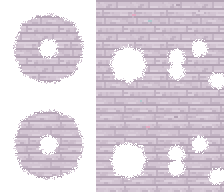
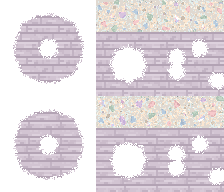
Ship Codex's skystone brick wall and the new nimbus (herringbone) and prism (pastel terrazzo) floors
Wall from tools/codex_wall.py, seams blended, roof slot rebuilt and
quantised to 38 colours by conform_wall_sheet (exit 0); door and window
icons re-cut from it. Floors from tools/codex_splat.py, motifs inside the
32 px cells. Generators no longer write any of the three.

Changed region(s): [[0.4062, 0.5, 1.0, 0.6875], [0.4062, 0.0, 1.0, 0.1875]]

diff --git a/tools/asset_generator/generate_assets.py b/tools/asset_generator/generate_assets.py
@@ -97,6 +97,10 @@ CONVERTED = ("tiles/skyway.png", "tiles/skyway_splat.png",
              "objects/tallcloudgrass.png", "objects/prismgrass.png",
              "mobs/skystonegolem.png", "mobs/stripedmegashark.png",
              "objects/hauntedclock.png",
+             # Codex art through tools/codex_wall.py and tools/codex_splat.py
+             # (docs/art/RUNS.md, 2026-09-16).
+             "objects/skystonebrickwall.png",
+             "tiles/nimbusfloor_splat.png", "tiles/prismfloor_splat.png",
              # Our own art for the three Outland mobs, which used to wear
              # vanilla's sheets by string ID.
              # Fen Wraith's body, composed by tools/resheet_mob.py from the
@@ -277,11 +281,8 @@ def main():
     gen_objects.gen_fulgurite_item(f"{out}/items/fulgurite.png")
     gen_objects.gen_prismshard_item(f"{out}/items/prismshard.png")
     # Buildable wood floors
-    gen_splats.build_splat(f"{out}/tiles/nimbusfloor_splat.png", gen_splats.material_nimbusfloor, 2, 0x81B,
-                           features=gen_splats.features_nimbusfloor)
+    # nimbusfloor_splat and prismfloor_splat are Codex art (CONVERTED above).
     # charfloor_splat is supplied art (CONVERTED above).
-    gen_splats.build_splat(f"{out}/tiles/prismfloor_splat.png", gen_splats.material_prismfloor, 2, 0x981,
-                           features=gen_splats.features_prismfloor)
     # Fauna: two critters, two enemies, bestiary icons
     gen_critters.gen_critters_v04(f"{out}/mobs")
     gen_critters.gen_critter_icons_v04(f"{out}/mobs/icons")

diff --git a/tools/asset_generator/gen_walls.py b/tools/asset_generator/gen_walls.py
@@ -458,5 +458,6 @@ NIGHTFELL_WALL = {
 
 
 def gen_walls(out_dir):
-    _build_wall(SKYSTONE_WALL, 0x5A11).save(f"{out_dir}/skystonebrickwall.png")
+    # objects/skystonebrickwall.png is Codex art since 2026-09-16
+    # (tools/codex_wall.py, CONVERTED in generate_assets.py).
     _build_wall(NIGHTFELL_WALL, 0x5A22).save(f"{out_dir}/nightfellwall.png")
